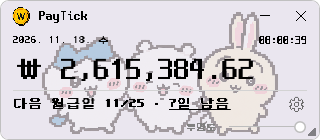
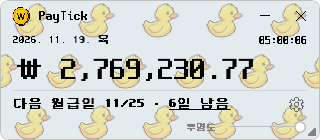
Update 1.1.7 manual and replace retired character screenshot

diff --git a/README.md b/README.md
@@ -4,7 +4,7 @@
 
 **[Windows용 다운로드](https://github.com/iffert23/Pay-Tick/releases/latest)** · [업데이트 내역](https://github.com/iffert23/Pay-Tick/releases) · [오류·기능 제안](https://github.com/iffert23/Pay-Tick/issues/new/choose)
 
-![치이카와 배경을 적용한 PayTick 위젯](assets/paytick-widget.png)
+![노란오리 배경을 적용한 PayTick 위젯](assets/paytick-widget.png)
 
 ## 다운로드하고 시작하기
 
@@ -21,17 +21,20 @@ Windows 10(1903 이상) 또는 Windows 11의 64비트 PC에서 사용할 수 있
 - 세후 연봉 직접 입력, 세전 연봉 자동 공제, 세전 금액 그대로 사용을 선택할 수 있습니다.
 - 요일별 근무시간과 날짜별 유급·무급휴가, 야근·잔업을 설정할 수 있습니다.
 - 내장 테마와 파스텔 배경색, 위젯 크기·투명도·모니터 위치를 고를 수 있습니다.
+- **사용자 지정**에서 투명 배경의 **512×512px PNG, 2MB 이하** 이미지를 선택할 수 있습니다. 조건이 맞지 않으면 선택할 수 없습니다.
 - 위젯을 닫으면 트레이로 숨깁니다. 트레이 메뉴에서 다시 표시하거나 완전히 종료할 수 있습니다.
 
 ## 업데이트
 
-앱의 **정보 → 업데이트 확인 → 업데이트**를 이용하세요. 구버전의 설치 버튼은 ‘다운로드 후 설치’로 표시될 수 있습니다. 자동 확인·알림도 선택할 수 있으며, 기존 설정과 기록은 유지합니다.
+앱의 **정보 → 업데이트 확인 → 업데이트**를 이용하세요. 구버전의 설치 버튼은 ‘다운로드 후 설치’로 표시될 수 있습니다. 자동 확인·다운로드·설치는 기본으로 켜져 있습니다. 원하지 않으면 정보에서 체크를 해제하고 저장하세요. 기존 설정과 기록은 유지합니다.
 
 ## 다른 PC로 기록 옮기기
 
 사용하던 PC의 **정보 → 데이터 내보내기**에서 파일을 저장하세요. 새 PC에 PayTick을 설치한 뒤 **정보 → 데이터 가져오기**로 파일을 선택하면 됩니다. 가져오기 전의 데이터는 자동 백업합니다.
 
-급여와 근무 기록은 사용 중인 PC에 저장됩니다. 앱 계정은 필요하지 않습니다. 백업 파일에는 개인 정보가 담기므로 직접 보관해 주세요.
+급여·근무 기록과 사용자 이미지는 사용 중인 PC에 저장되며 데이터 백업에도 포함됩니다. 앱 계정은 필요하지 않습니다. 백업 파일에는 개인 정보가 담기므로 직접 보관해 주세요.
+
+정보 메뉴 맨 아래의 **설명서** 버튼으로 [사용 안내](https://paytick.hachjy.com/)를 열 수 있습니다.
 
 ## 도움이 필요할 때
 
